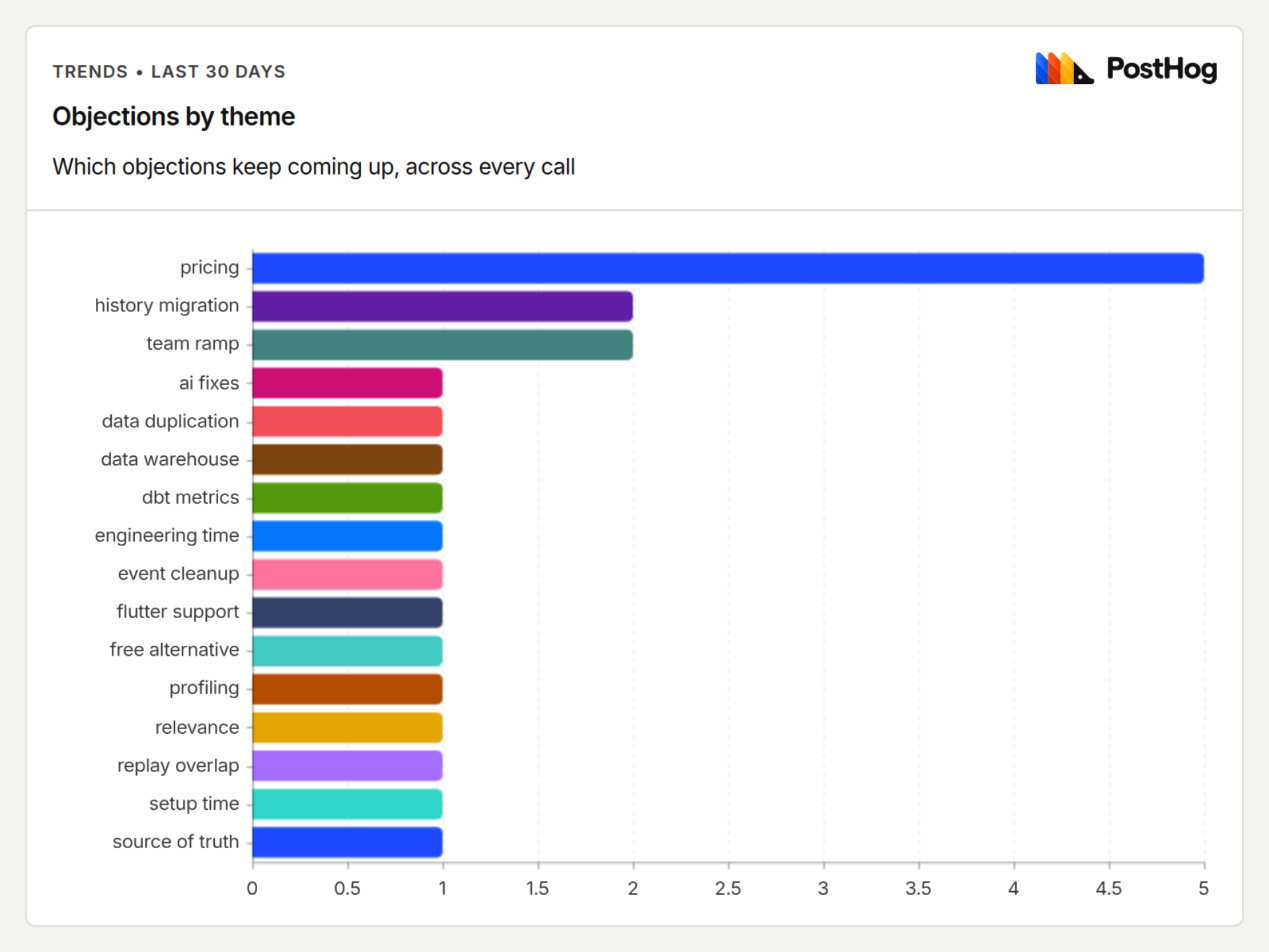
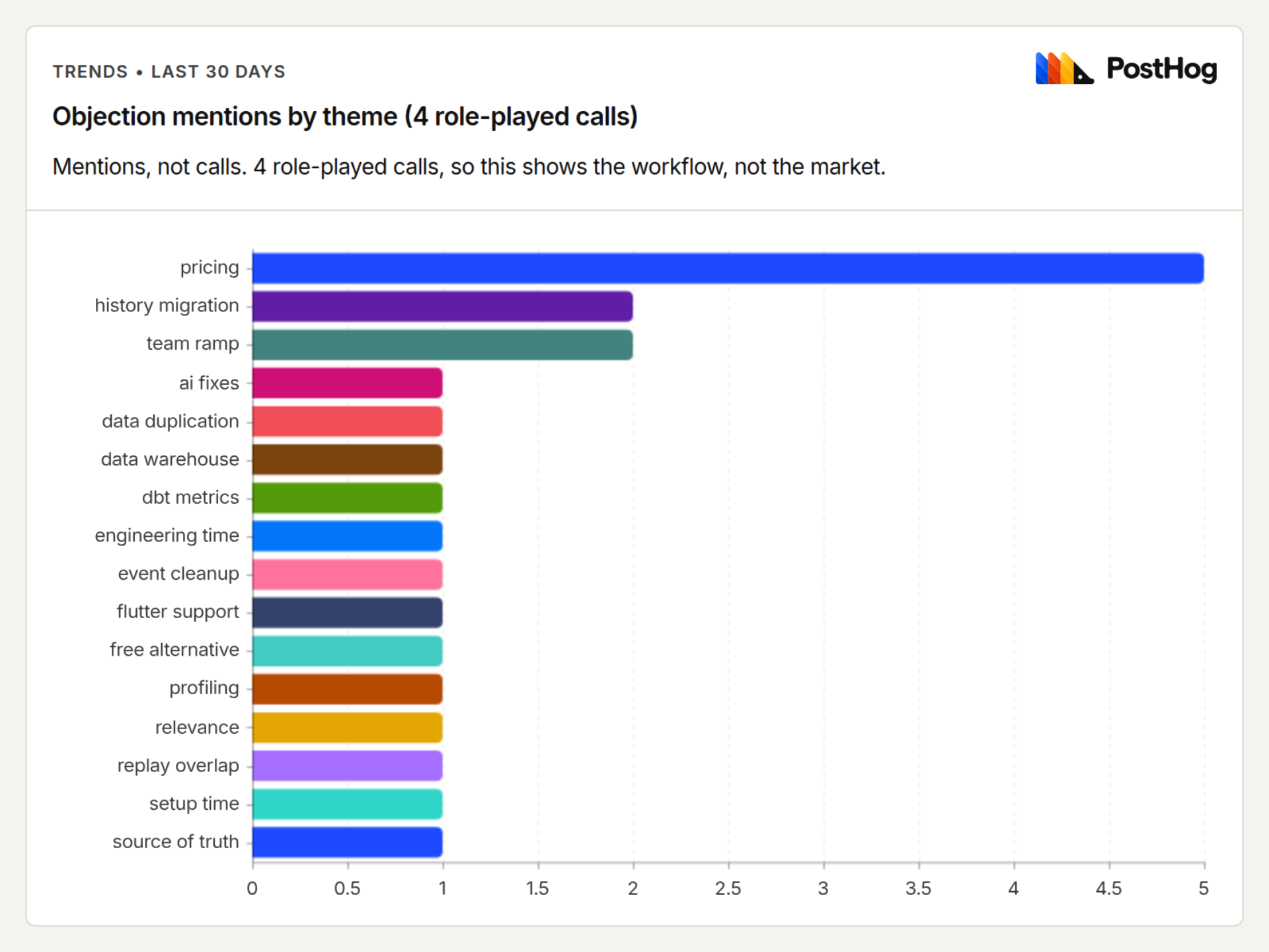
review fixes: say where the transcript goes, count calls separately from mentions, stop inventing competitor limits
- readme: the transcript goes to the Claude API, only the PostHog events are quote-free
- prompt v3: evidence rules apply to answers and flip questions, a product in the buyer's stack is not a competitor, the Microphone = rep label is an assumption
- sentry card: replace the 'what Sentry can't show you' claim with a test the buyer can run
- mixpanel and analytics cards: no promised timelines, billing caps scoped to the products discussed
- objection log: mentions and calls are separate columns, log answers labeled as drafts
- chart retitled 'objection mentions by theme (4 role-played calls)'

Changed region(s): [[0.0307, 0.0914, 0.7069, 0.1828]]

diff --git a/src/write/objections.ts b/src/write/objections.ts
@@ -76,12 +76,15 @@ function later(a: string, b: string): boolean {
 }
 
 function countsBlock(rows: Row[], processed: string[]): string {
-  const byTheme = new Map<string, { count: number; last: string; quote: string }>()
+  // Mentions and calls are different facts. The same worry raised three
+  // times on one call is one call; the chart should not call it three.
+  const byTheme = new Map<string, { count: number; calls: Set<string>; last: string; quote: string }>()
   for (const r of rows) {
     const seen = byTheme.get(r.theme)
-    if (!seen) byTheme.set(r.theme, { count: 1, last: r.date, quote: r.quote })
+    if (!seen) byTheme.set(r.theme, { count: 1, calls: new Set([r.call]), last: r.date, quote: r.quote })
     else {
       seen.count += 1
+      seen.calls.add(r.call)
       if (later(r.date, seen.last)) {
         seen.last = r.date
         seen.quote = r.quote
@@ -89,11 +92,13 @@ function countsBlock(rows: Row[], processed: string[]): string {
     }
   }
   const sorted = [...byTheme.entries()].sort((a, b) => b[1].count - a[1].count || a[0].localeCompare(b[0]))
-  const body = sorted.map(([theme, s]) => `| ${theme} | ${s.count} | ${s.last} | ${scrub(s.quote)} |`).join('\n')
+  const body = sorted
+    .map(([theme, s]) => `| ${theme} | ${s.count} | ${s.calls.size} | ${s.last} | ${scrub(s.quote)} |`)
+    .join('\n')
   return [
     COUNTS_START,
-    '| Theme | Count | Last heard | Example quote |',
-    '|---|---|---|---|',
+    '| Theme | Mentions | Calls | Last heard | Example quote |',
+    '|---|---|---|---|---|',
     body,
     `<!-- processed: ${processed.join(', ')} -->`,
     COUNTS_END,

diff --git a/test/objections.test.ts b/test/objections.test.ts
@@ -13,10 +13,10 @@ function logRows(md: string): string[] {
   return table.slice(2)
 }
 
-function countFor(md: string, theme: string): string | undefined {
+function countFor(md: string, theme: string, column: 'mentions' | 'calls' = 'mentions'): string | undefined {
   const counts = md.split('<!-- counts:start -->')[1].split('<!-- counts:end -->')[0]
   const row = counts.split('\n').find((l) => l.startsWith(`| ${theme} |`))
-  return row?.split('|')[2].trim()
+  return row?.split('|')[column === 'mentions' ? 2 : 3].trim()
 }
 
 const secondCall = callFindings({
@@ -49,6 +49,14 @@ describe('objection log', () => {
     const { text, added } = updateObjectionLog(null, f)
     expect(added).toHaveLength(4)
     expect(countFor(text, 'pricing')).toBe('2')
+    expect(countFor(text, 'pricing', 'calls')).toBe('1')
+  })
+  test('counts calls separately from mentions across calls', () => {
+    const f = callFindings()
+    f.objections.push({ quote: 'And per seat?', theme: 'pricing', repSaid: null, betterAnswer: 'No seats.' })
+    const { text } = updateObjectionLog(updateObjectionLog(null, f).text, secondCall)
+    expect(countFor(text, 'pricing')).toBe('3')
+    expect(countFor(text, 'pricing', 'calls')).toBe('2')
   })
   test('a forced rerun with identical output adds nothing', () => {
     const once = updateObjectionLog(null, callFindings()).text

diff --git a/examples/objections.md b/examples/objections.md
@@ -1,33 +1,35 @@
 # Objection log
 
+From 4 role-played calls, so the counts show the workflow, not what the market says. Answers in the Log table are the model's drafts as generated. The reviewed answers are on the battlecards; where they differ, the card wins.
+
 <!-- counts:start -->
-| Theme | Count | Last heard | Example quote |
-|---|---|---|---|
-| pricing | 5 | 2026-11-06 | "That's exactly what scares me. Scales with me means it scales up when I least expect it." |
-| history migration | 2 | 2026-11-06 | "Straightforward how? 3 years is a lot of data and I don't want to find out halfway through that half of it didn't come over." |
-| team ramp | 2 | 2026-11-06 | "Everyone says that." |
-| ai fixes | 1 | 2026-11-06 | "Sentry's AI already proposes fixes and opens pull requests for us, why would I move?" |
-| data duplication | 1 | 2026-11-06 | "But we already have Snowflake, why would we put data anywhere else? I don't want another copy of everything." |
-| data warehouse | 1 | 2026-11-06 | "Our data team is also going to ask whether all of this ends up in Snowflake." |
-| dbt metrics | 1 | 2026-11-06 | "How does that work with the dbt models we already trust? We spent 2 years getting our metric definitions right." |
-| engineering time | 1 | 2026-11-06 | "I don't have an engineer to spare for a month." |
-| event cleanup | 1 | 2026-11-06 | "our event names are a mess. 5 people named things 5 different ways over 3 years. Do we have to clean all that up before we move?" |
-| flutter support | 1 | 2026-11-06 | "our mobile app is in Flutter, I'm not sure you even support it." |
-| free alternative | 1 | 2026-11-06 | "why not just use the free version of something simpler? Google Analytics is free." |
-| profiling | 1 | 2026-11-06 | "We also lean on Sentry's profiling a lot, do you have that?" |
-| relevance | 1 | 2026-11-06 | "Everything we have lives in Snowflake and dbt, so I'm not sure why I'm on this call" |
-| replay overlap | 1 | 2026-11-06 | "But Sentry already shows me a replay attached to the error, so what's actually different?" |
-| setup time | 1 | 2026-11-06 | "we're 2 engineers, it has to take an afternoon, not a sprint." |
-| source of truth | 1 | 2026-11-06 | "Should,  I need better than should. My team owns metric definitions. I don't want a second source of truth that disagrees with ours." |
-| status quo | 1 | 2026-11-06 | "Sentry works, nobody on my team complains about it." |
-| too many products | 1 | 2026-11-06 | "there are like 10 products on your site. Do I need all of this? I just want to know if people finish onboarding." |
-| warehouse compute | 1 | 2026-11-06 | "And who pays for the warehouse compute if PostHog is querying Snowflake all day?" |
+| Theme | Mentions | Calls | Last heard | Example quote |
+|---|---|---|---|---|
+| pricing | 5 | 3 | 2026-11-06 | "That's exactly what scares me. Scales with me means it scales up when I least expect it." |
+| history migration | 2 | 1 | 2026-11-06 | "Straightforward how? 3 years is a lot of data and I don't want to find out halfway through that half of it didn't come over." |
+| team ramp | 2 | 1 | 2026-11-06 | "Everyone says that." |
+| ai fixes | 1 | 1 | 2026-11-06 | "Sentry's AI already proposes fixes and opens pull requests for us, why would I move?" |
+| data duplication | 1 | 1 | 2026-11-06 | "But we already have Snowflake, why would we put data anywhere else? I don't want another copy of everything." |
+| data warehouse | 1 | 1 | 2026-11-06 | "Our data team is also going to ask whether all of this ends up in Snowflake." |
+| dbt metrics | 1 | 1 | 2026-11-06 | "How does that work with the dbt models we already trust? We spent 2 years getting our metric definitions right." |
+| engineering time | 1 | 1 | 2026-11-06 | "I don't have an engineer to spare for a month." |
+| event cleanup | 1 | 1 | 2026-11-06 | "our event names are a mess. 5 people named things 5 different ways over 3 years. Do we have to clean all that up before we move?" |
+| flutter support | 1 | 1 | 2026-11-06 | "our mobile app is in Flutter, I'm not sure you even support it." |
+| free alternative | 1 | 1 | 2026-11-06 | "why not just use the free version of something simpler? Google Analytics is free." |
+| profiling | 1 | 1 | 2026-11-06 | "We also lean on Sentry's profiling a lot, do you have that?" |
+| relevance | 1 | 1 | 2026-11-06 | "Everything we have lives in Snowflake and dbt, so I'm not sure why I'm on this call" |
+| replay overlap | 1 | 1 | 2026-11-06 | "But Sentry already shows me a replay attached to the error, so what's actually different?" |
+| setup time | 1 | 1 | 2026-11-06 | "we're 2 engineers, it has to take an afternoon, not a sprint." |
+| source of truth | 1 | 1 | 2026-11-06 | "Should,  I need better than should. My team owns metric definitions. I don't want a second source of truth that disagrees with ours." |
+| status quo | 1 | 1 | 2026-11-06 | "Sentry works, nobody on my team complains about it." |
+| too many products | 1 | 1 | 2026-11-06 | "there are like 10 products on your site. Do I need all of this? I just want to know if people finish onboarding." |
+| warehouse compute | 1 | 1 | 2026-11-06 | "And who pays for the warehouse compute if PostHog is querying Snowflake all day?" |
 <!-- processed: 7955511b-3f84-4641-8eaf-1fcb7528c4ab, b2a6c3e3-94a7-4107-967f-69a977a5000f, b9f61712-8abf-48c5-8b53-abf81deb4a8d, ad1ccf6a-556d-4c6d-98f0-5aa312b58e86 -->
 <!-- counts:end -->
 
 ## Log
 
-| Date | Call | Competitor | Theme | Quote | Better answer |
+| Date | Call | Competitor | Theme | Quote | Draft answer (as generated) |
 |---|---|---|---|---|---|
 | 2026-11-06 | Mock Eval: Keep Sentry or switch? | Sentry | status quo | "Sentry works, nobody on my team complains about it." | Agreed, and I'm not asking you to replace it. The question is whether Sentry tells you which errors cost you signups, and from what you said, it tells you which ones are loudest. |
 | 2026-11-06 | Mock Eval: Keep Sentry or switch? | Sentry | replay overlap | "But Sentry already shows me a replay attached to the error, so what's actually different?" | You're right, a replay on an error is table stakes and Sentry does it well. What Sentry can't show you is how many people hit that error mid-signup and never came back, and that's what decides what you fix first. |

diff --git a/README.md b/README.md
@@ -10,11 +10,15 @@ One command, one call, three markdown files:
 
 - `battlecards/<competitor>.md`: what they say, what we say, questions that flip it. Only written when a competitor came up.
 - `talk-tracks/<topic>.md`: an opener, discovery questions, and the facts the buyer gave us.
-- `objections.md`: a running log with counts, so the same worry showing up in 6 calls is obvious.
+- `objections.md`: a running log that counts mentions and calls per theme, so the same worry showing up in 6 calls is obvious.
 
-Every objection also lands in PostHog as an `objection_heard` event (theme, competitor, call date, source). The prospect's words never leave your machine.
+Every objection also lands in PostHog as an `objection_heard` event, so the log doubles as a live chart.
 
-![Objections by theme, across 4 role-played calls](docs/posthog-objections.png)
+Where the words go: the transcript is sent to the Claude API to write the drafts. The PostHog events carry the objection theme, the competitor, the call date and the source. They never include the transcript, the buyer's quotes, or the meeting title.
+
+![Objection mentions by theme, across 4 role-played calls](docs/posthog-objections.png)
+
+The chart counts mentions, not calls. "Pricing" came up 5 times across 3 of the 4 calls, and the log shows both numbers.
 
 ## Quick start
 
@@ -44,9 +48,11 @@ Running the same call twice does nothing unless you pass `--force`. Your edits t
 
 ## The prompt
 
-The prompt is the part worth reading: [`prompts/battlecard.md`](prompts/battlecard.md). It tells the model who is the rep and who is the buyer (Granola labels them Microphone and System audio), to keep the buyer's exact words, to write each better answer as something a rep can say out loud, and to name a competitor only when the buyer did.
+The prompt is the part worth reading: [`prompts/battlecard.md`](prompts/battlecard.md). It tells the model who is the rep and who is the buyer (Granola labels them Microphone and System audio, and the prompt says that is an assumption about how these calls were recorded, not proof), to keep the buyer's exact words, to write each better answer as something a rep can say out loud, and to name a competitor only when the buyer presents one as an alternative.
 
 v1 wrote advice about the rep instead of words for the rep, and treated the rep's product claims as proof. In [v2](https://github.com/beegrrl/call-to-card/commit/6efd050), I replaced "proof points" with buyer facts, asked for answers a rep could say, and added competitor-specific questions. A rep saying something on a call doesn't make it true.
+
+v3 came out of reviewing the example cards. The evidence rule only covered buyer facts, so the model was still free to invent competitor limitations and setup timelines in the answers. v3 applies it to every answer and every flip question, tells the model that a product in the buyer's existing stack is not a competitor, and asks for a bounded test whenever the call can't support a claim.
 
 ## Examples
 
@@ -57,9 +63,9 @@ Four role-played calls, recorded in Granola with a scripted buyer. The raw model
 | Already on PostHog, keeping Sentry for errors | Sentry | [sentry.md](examples/battlecards/sentry.md) | [adding-posthog-next-to-sentry.md](examples/talk-tracks/adding-posthog-next-to-sentry.md) |
 | Mixpanel renewal went up | Mixpanel | [mixpanel.md](examples/battlecards/mixpanel.md) | [replacing-mixpanel-at-renewal.md](examples/talk-tracks/replacing-mixpanel-at-renewal.md) |
 | 9-person startup with nothing but Google Analytics | Google Analytics | [google-analytics.md](examples/battlecards/google-analytics.md) | [predictable-pricing-for-launch.md](examples/talk-tracks/predictable-pricing-for-launch.md) |
-| Snowflake and dbt shop, no second copy of the data | none named | (no card, by design) | [posthog-alongside-snowflake-and-dbt.md](examples/talk-tracks/posthog-alongside-snowflake-and-dbt.md) |
+| Snowflake and dbt shop, no second copy of the data | Existing stack, not a replacement evaluation | (no card, by design) | [posthog-alongside-snowflake-and-dbt.md](examples/talk-tracks/posthog-alongside-snowflake-and-dbt.md) |
 
-The running log for all four is [examples/objections.md](examples/objections.md).
+The running log for all four is [examples/objections.md](examples/objections.md). The answers in the log are the model's drafts as generated; the reviewed answers are on the cards, and where they differ, the card wins.
 
 What I fixed by hand: raw output for the Sentry call is [2cc7d31](https://github.com/beegrrl/call-to-card/commit/2cc7d31), my edits are [816f3e9](https://github.com/beegrrl/call-to-card/commit/816f3e9). Raw output for the other three is [278c3ee](https://github.com/beegrrl/call-to-card/commit/278c3ee), my edits are [58319e0](https://github.com/beegrrl/call-to-card/commit/58319e0).
 

diff --git a/prompts/battlecard.md b/prompts/battlecard.md
@@ -2,7 +2,7 @@
 
 You are reading the transcript of a sales call. Someone on the sales team will use what you write before their next call, maybe the same day. Write for that person.
 
-In Granola transcripts, "Microphone" or "Rep" is the salesperson and "System audio" (or a person's name) is the other side of the call.
+In Granola transcripts, "Microphone" or "Rep" is the salesperson and "System audio" (or a person's name) is the other side of the call. That is an assumption about how these calls were recorded (the rep ran Granola), not something the label proves. If a transcript labels speakers some other way, or the Microphone speaker is clearly the buyer, say so in the first objection's `repSaid` and go by what the people say, not the label.
 
 ## What to pull out
 
@@ -14,9 +14,18 @@ Write down what the rep actually said back in `repSaid`, or null if they moved o
 
 Then write `betterAnswer`: the words a rep can say out loud next time, in 1 or 2 sentences. Write the line itself, not advice about how the rep did. No "the answer was right," no "add one step." Be direct and have an opinion. If the honest answer is that the competitor is the better fit for part of the job, say that. A rep who admits a real gap gets believed about everything else.
 
-**Competitor.** Only name a competitor if the prospect named one. If nobody did, `competitor` is null and `flipQuestions` is empty. Don't guess from context.
+**Competitor.** Only name a competitor if the prospect named one. If nobody did, `competitor` is null and `flipQuestions` is empty. Don't guess from context. A named product is not automatically a competitor. Name one when the buyer presents it as an alternative to PostHog for the use case being discussed. A product that is just their existing infrastructure, or something PostHog would need to integrate with, is not a competitor on its own. A warehouse they keep is a buyer fact, not a rival.
 
-**Flip questions.** If a competitor came up, write 2 to 4 `flipQuestions`: questions a rep can ask that move the comparison to where PostHog is actually stronger for this buyer. Make them specific to that competitor. Don't repeat the discovery questions.
+**Flip questions.** If a competitor came up, write 2 to 4 `flipQuestions`: questions a rep can ask that test whether PostHog is the better fit for this buyer, without assuming it is. A good flip question is one the buyer can answer from their own experience and that would also tell the rep when to back off. Make them specific to that competitor. Don't repeat the discovery questions.
+
+## What counts as evidence
+
+These rules apply to `betterAnswer` and `flipQuestions`, not only `buyerFacts`:
+
+- Do not turn a rep's claim or a buyer's assumption into a verified product fact.
+- Do not invent feature limitations of the competitor, savings, migration guarantees, or implementation timelines.
+- When the transcript cannot support a claim, have the rep propose a specific check or a bounded test instead ("let's send 4 events this afternoon and see if the funnel shows up").
+- When pricing caps or limits come up, scope the answer to the products being discussed and say what actually stops when the cap is hit.
 
 **Talk track.** Pick the one topic this call was really about and write:
 - `topic`: 2 to 5 words, like "keeping Sentry for errors"

diff --git a/examples/battlecards/google-analytics.md b/examples/battlecards/google-analytics.md
@@ -13,9 +13,9 @@
 ## What we say
 
 - **too many products**: No, and most teams don't. You want one thing, a funnel on your onboarding steps, so ignore the rest of the site until you have a question that funnel can't answer.
-- **pricing**: Fair, and 'scales with you' isn't an answer. Tell me roughly how many users you expect on launch day and I'll show you the bill at that volume. Then we set a billing limit on each product before launch. Capture stops at the cap, so we pick that number together.
-- **setup time**: Plan on an afternoon. Add the snippet, send 3 or 4 onboarding events, and build the funnel in the UI with no extra engineering. If events aren't showing up by the end of the day, tell me and we'll fix it together.
-- **free alternative**: Keep Google Analytics for marketing traffic, it's good at that. It's weak at following a signed-in user through onboarding steps, which is your question. PostHog also has a free monthly allowance, and 3 or 4 tracked steps will likely sit inside it, so we can check that math together.
+- **pricing**: Fair, and 'scales with you' isn't an answer. Tell me roughly how many users you expect on launch day and I'll show you the bill at that volume. Then we set a billing limit on product analytics before launch. When you hit it, event capture stops until the next month, so we pick that number together.
+- **setup time**: Let's test the afternoon instead of me promising it. Add the snippet, send 3 or 4 onboarding events, and build the funnel in the UI. If the funnel isn't showing real users by the end of the day, tell me, and we either fix it together or you walk.
+- **free alternative**: Keep Google Analytics for marketing traffic, it's good at that. Your question is about a signed-in user moving through onboarding steps, which is the thing product analytics is built for. PostHog has a free monthly allowance; give me your expected signups and I'll check whether a 4-step funnel stays inside it before you spend anything.
 
 ## Questions that flip it
 

diff --git a/examples/battlecards/mixpanel.md b/examples/battlecards/mixpanel.md
@@ -18,8 +18,8 @@
 - **history migration**: You don't lose it. Mixpanel stays live while we run side by side, we import the history, and we compare event counts by month before you switch anything off. I'll send the exact steps and what can't be imported, in writing.
 - **event cleanup**: No, you don't have to clean it up first, but the mess comes with you. I'd pick the 10 or so events behind your Monday dashboards, name those properly going forward, and leave the rest alone.
 - **team ramp**: Your team will be slower for a couple of weeks, so don't take my word for it. Have them rebuild one Monday dashboard in PostHog while Mixpanel keeps running, and you'll know within a week.
-- **pricing**: You'll have a number before you talk to your CFO. Give me your monthly events and the sessions you'd record, and I'll send an estimate for analytics, replay and flags with a low and a high case. You can also set a billing limit on each product so the bill can't pass what you approved.
-- **engineering time**: You won't need a month of engineering. Sending events alongside Mixpanel is a small install, and your product team can rebuild the dashboards themselves. I'll give you an hours estimate for the engineering part before you commit.
+- **pricing**: You'll have a number before you talk to your CFO. Give me your monthly events and the sessions you'd record, and I'll send an estimate for analytics, replay and flags with a low and a high case. You can also set a billing limit on each of those three, and when one hits its limit that product stops collecting until the next period, so the bill can't pass what you approved.
+- **engineering time**: I'm not going to promise an hours number before I've seen your setup. Sending events alongside Mixpanel is usually a small install, and your product team can rebuild the dashboards themselves. Give me 30 minutes with whoever owns your tracking and I'll put the engineering estimate in writing before you commit.
 
 ## Questions that flip it
 

diff --git a/examples/battlecards/sentry.md b/examples/battlecards/sentry.md
@@ -15,7 +15,7 @@
 ## What we say
 
 - **status quo**: Agreed, and I'm not asking you to replace it. The question is whether Sentry tells you which errors cost you signups, and from what you said, it tells you which ones are loudest.
-- **replay overlap**: You're right, a replay on an error is table stakes and Sentry does it well. What Sentry can't show you is how many people hit that error mid-signup and never came back, and that's what decides what you fix first.
+- **replay overlap**: Yes, Sentry has replay, and it does it well. Since you already use PostHog for analytics, let's test whether seeing errors next to your signup funnel makes it easier to decide what to fix first. If it doesn't, you keep Sentry and we've both learned something.
 - **ai fixes**: That's a real strength, so keep it. Use PostHog to decide which errors are worth sending to it.
 - **profiling**: No, we don't do code profiling, and Sentry is the right tool for that. So the real question is whether you need Sentry for profiling only, or for error triage too.
 - **pricing**: You'll likely pay for both for a while, so I won't promise savings up front. Give me your monthly error volume and I'll send you a real cost estimate in writing today, so you have a number for finance before the trial starts.
